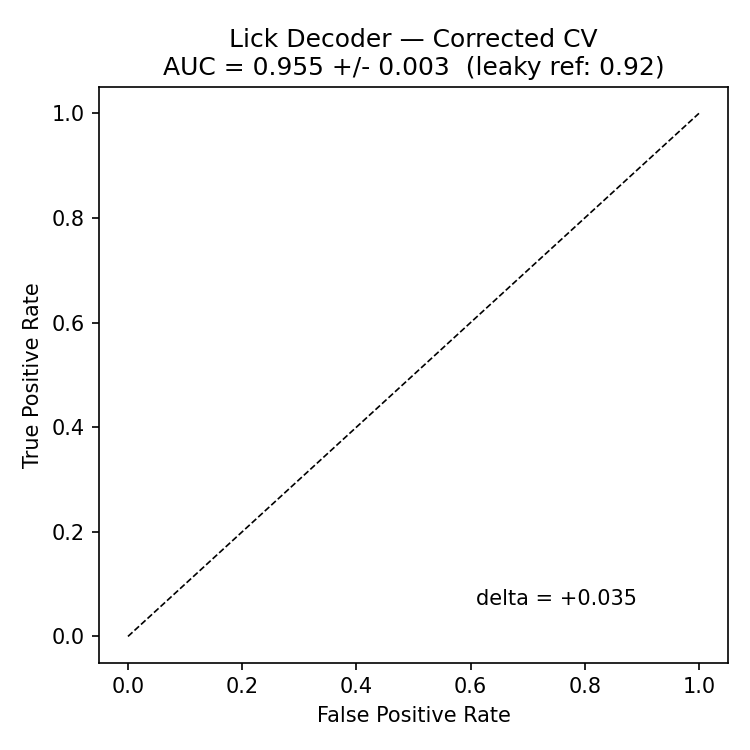
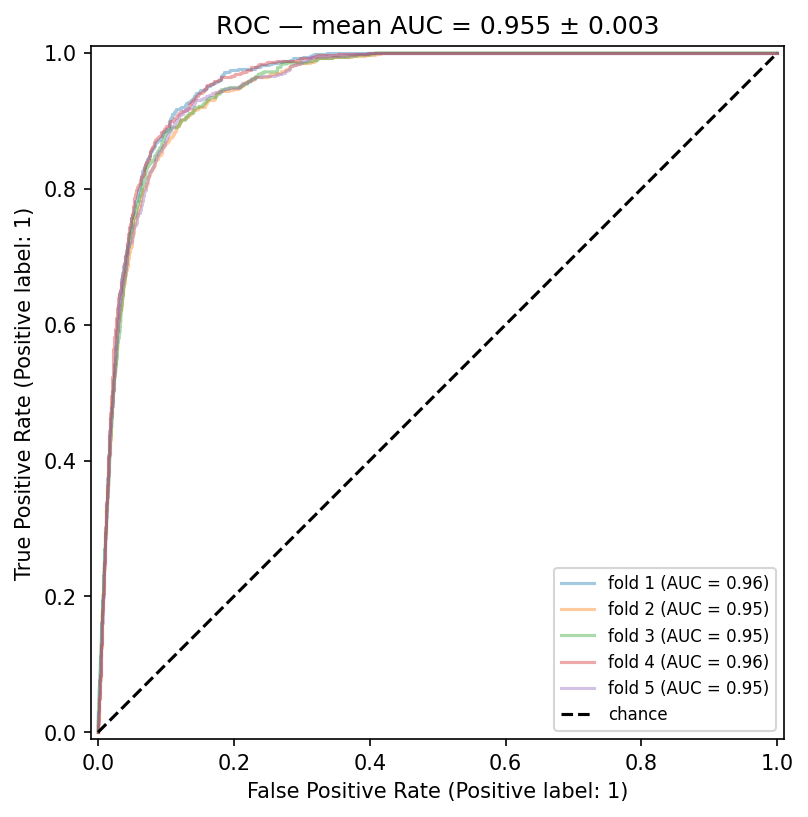
Fix ROC legend: remove duplicate AUC from fold labels
RocCurveDisplay auto-appends (AUC = X.XX) to the name= argument;
passing our own AUC in the name caused double-labeling. Regenerated
roc_corrected.png with clean legend.

diff --git a/src/decoder.py b/src/decoder.py
@@ -162,7 +162,7 @@ def plot_roc(X_raw, y, sigma_bins=2, n_components=20, n_splits=5, random_state=4
         )
         aucs.append(auc)
         RocCurveDisplay.from_predictions(
-            y_test, proba, ax=ax, alpha=0.4, name=f"fold {fold+1} AUC={auc:.2f}"
+            y_test, proba, ax=ax, alpha=0.4, name=f"fold {fold+1}"
         )
     ax.plot([0, 1], [0, 1], "k--", label="chance")
     ax.set_title(f"ROC — mean AUC = {np.mean(aucs):.3f} ± {np.std(aucs):.3f}")

diff --git a/vbn_lick_decoder_corrected.py b/vbn_lick_decoder_corrected.py
@@ -283,7 +283,7 @@ for fold, (train_idx, test_idx) in enumerate(kf.split(X_raw, y)):
     y_prob = pipe.predict_proba(X_test_s)[:, 1]
     auc    = roc_auc_score(y[test_idx], y_prob)
     RocCurveDisplay.from_predictions(
-        y[test_idx], y_prob, ax=ax, alpha=0.45, name=f"fold {fold+1} (AUC={auc:.2f})"
+        y[test_idx], y_prob, ax=ax, alpha=0.45, name=f"fold {fold+1}"
     )
 
 ax.set_title(
